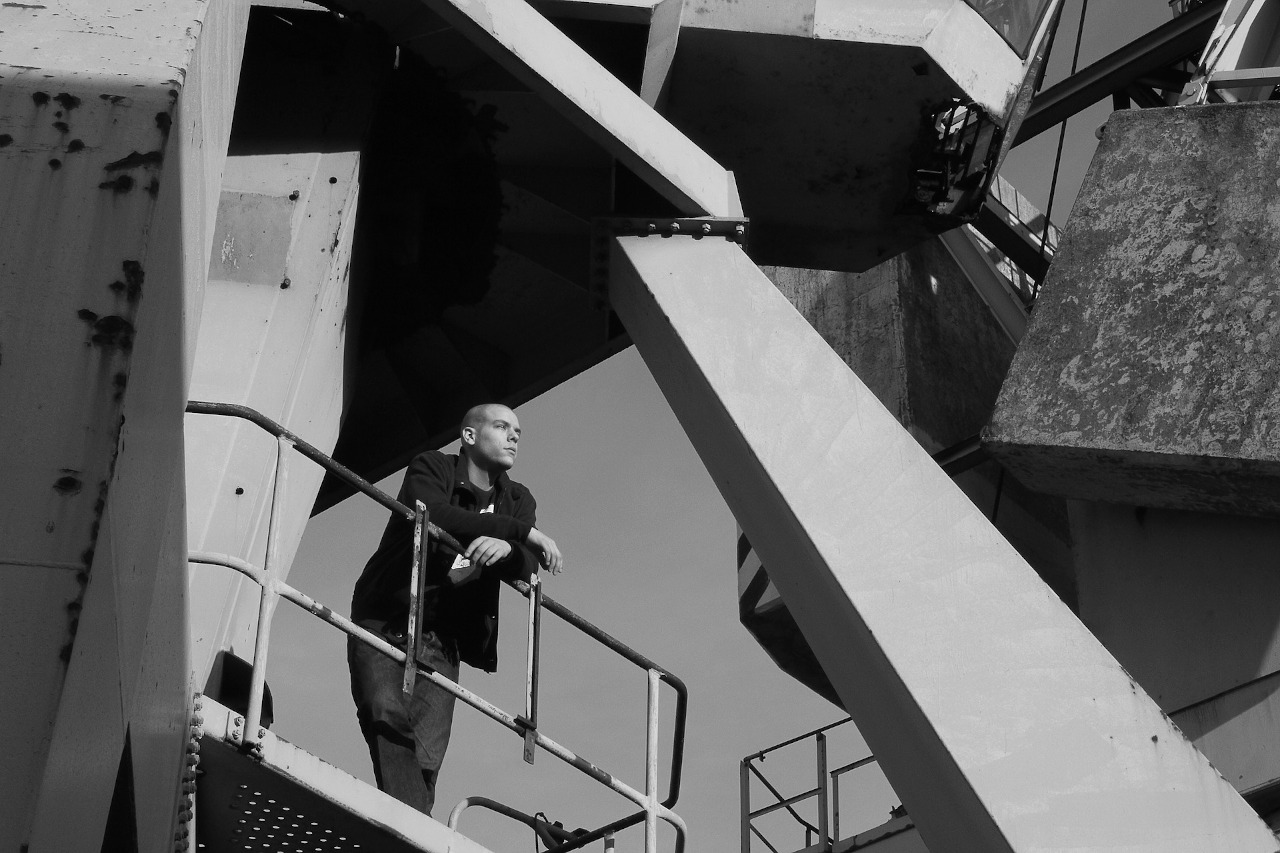
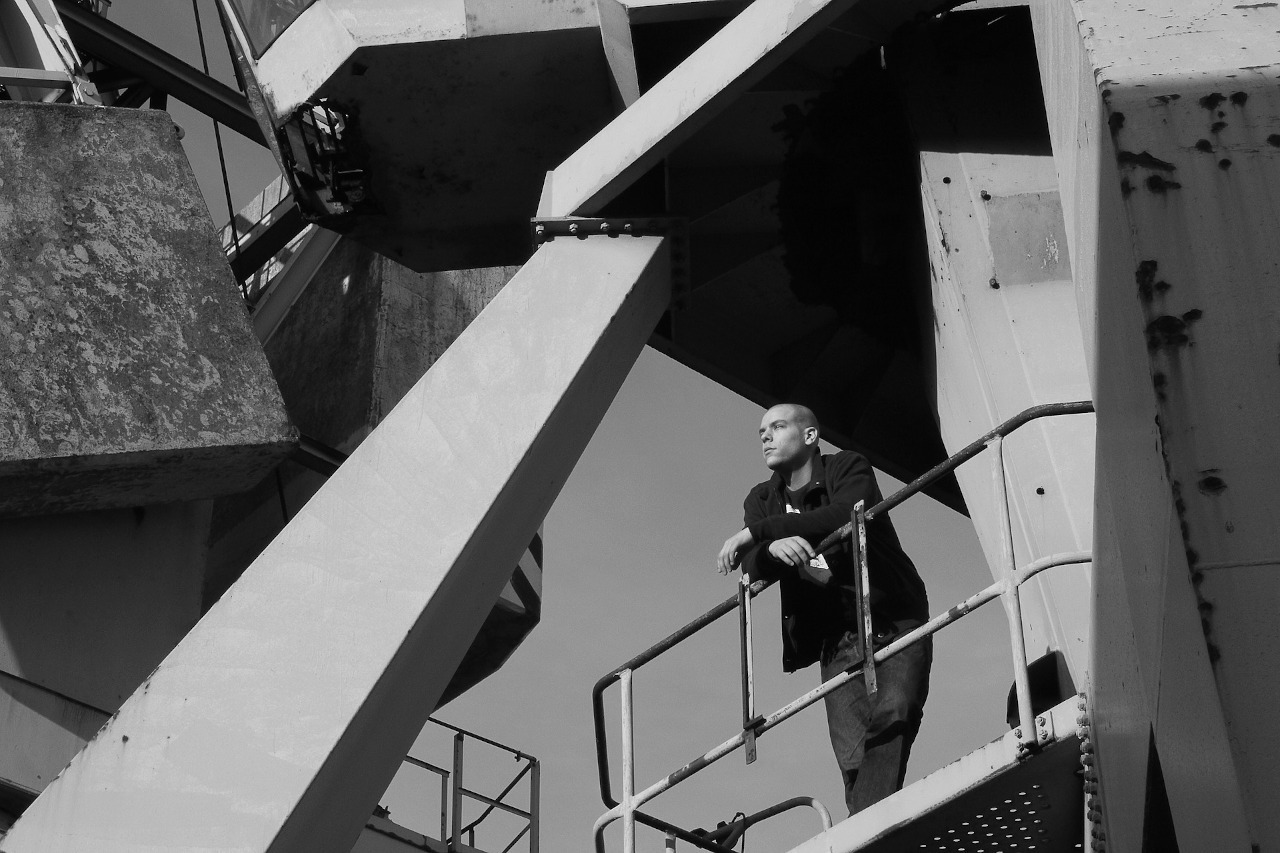
Yellow main box solved

diff --git a/index.html b/index.html
@@ -13,23 +13,23 @@
     <link rel="stylesheet" href="style/style.css">
 </head>
 <body>
-    <header class="fixed-top">
-        <nav class="navbar navbar-expand-lg navbar-light bg-light">
-            <a class="navbar-brand" href="#"><img src="./img/logo.png" alt="Logo firmowe firmy Darex"></a>
+    <header class="row fixed-top m-0 p-0">
+        <nav class="col navbar navbar-expand-lg navbar-light bg-light px-4">
+            <a class="navbar-brand p-0 m-0 pr-3" href="#"><img src="./img/logo.png" class="my-0 py-0" alt="Logo firmowe firmy Darex"></a>
             <button class="navbar-toggler" type="button" data-toggle="collapse" data-target="#navbarToggler" aria-controls="navbarToggler" aria-expanded="false" aria-label="Toggle navigation">
               <span class="navbar-toggler-icon"></span>
             </button>
           
             <div class="collapse navbar-collapse" id="navbarToggler">
               <ul class="navbar-nav ml-auto mt-2 mt-lg-0 text-center font-weight-bold h4">
-                <li class="nav-item px-3 py-2 active">
-                  <a class="nav-link text-uppercase" href="#">Home<span class="sr-only">(current)</span></a>
+                <li class="nav-item px-3 py-lg-0 active">
+                  <a class="nav-link text-uppercase py-lg-0" href="#">Home<span class="sr-only">(current)</span></a>
                 </li>
-                <li class="nav-item px-3 py-2">
-                  <a class="nav-link text-uppercase" href="#">Referencje</a>
+                <li class="nav-item px-3 py-lg-0">
+                  <a class="nav-link text-uppercase py-lg-0" href="#">Referencje</a>
                 </li>
-                <li class="nav-item px-3 py-2">
-                  <a class="nav-link text-uppercase" href="#">Kontakt</a>
+                <li class="nav-item px-3 py-lg-0">
+                  <a class="nav-link text-uppercase py-lg-0" href="#">Kontakt</a>
                 </li>
               </ul>
             </div>
@@ -37,21 +37,31 @@
     </header>
 
     <main>
-        <div class="row mx-0">
-          <div class="col px-0 d-flex flex-row-reverse">
-            <!-- <div class="container p-0">
-              <div class="skewShapeBack"></div>
+      <div class="row mx-0">
+        <div class="col px-0">
+
+          <div id="welcomeWraper" class="col p-0 m-0 d-flex justify-content-center mx-auto">
+            
+            <div id="welcomeText" class="text-uppercase text-center py-4">
+              <h1 class="text-secondary font-weight-bold">partner</h1>
+              <h1 class="text-dark font-weight-bold">twojego</h1>
+              <h1 class="text-secondary font-weight-bold">biznesu</h1>
             </div>
-            <div class="container p-0">
-              <div class="skewShape"></div>
-            </div> -->
-            <img src="./img/home-main2.jpg" alt="Meżczyzna stojący na pomoście żurawia">
+            <div class="welcomeBox p-0 m-0"></div>
+            <div class="welcomeBox--solid p-0 m-0">
+              <!-- <div class="welcomeCoverBox"></div> -->
+            </div>
+            
           </div>
+
+          <img src="./img/home-main.jpg" alt="Meżczyzna stojący na pomoście żurawia">
+        
         </div>
+      </div>
     </main>
 
     <footer>
-
+kkkk
     </footer>
 
     <script src="https://code.jquery.com/jquery-3.4.1.min.js" integrity="sha256-CSXorXvZcTkaix6Yvo6HppcZGetbYMGWSFlBw8HfCJo=" crossorigin="anonymous"></script>

diff --git a/style/style.scss b/style/style.scss
@@ -9,50 +9,74 @@ header{
     width: 100%;
     height: $topSpace;
     img{
-        height: ($topSpace);
+        height: ($topSpace - 2vh);
+    }
+    a{
+        @include mQfullHD{
+            font-size: 2rem;
+        }
     }
 }
 
 main{
-    padding-top: ($topSpace + 2vh);
+    padding-top: $topSpace;
     background-color: $skewShapeColor;
     img{
         width: auto;
-        height: (100vh - ($topSpace + 2vh));
+        height: (100vh - ($topSpace));
+        float: right;
         @include mQportrait{
             width: 100%;
             height: auto;
         }    
     }
-    .container{
-        right: 45vw;
-        height: (100vh - ($topSpace + 2vh)); 
-        border: 1px solid red;
-        position: absolute;
-        z-index: 1;
-        overflow: hidden;
-        @include mQportrait{
-            height: 66.640625vw;
+    #welcomeWraper{
+        width: 55vw;
+        // right: 40vw;
+        @include mQlandscape{
+            position: absolute;
+            padding-top: $topSpace;
+            height: (100vh - ($topSpace));
+        }
+        @include mQpanoram{
+            right: 35vw;
         }
     }
-    .skewShapeBack{
-        width: 100%;
-        height: 100%;
+    #welcomeText{
+        z-index: 1;
+        @include mQlandscape{
+            text-align: left !important;
+            position: relative;
+            top: 20px;
+            left: -50px;
+        }
+    }
+    .welcomeBox{
         background-color: $skewShapeColorOpacity;
-        position: relative;
-        transform: skew(-20deg);
-        transform-origin: 0 0;
-        right: 0px;
-    }
-    .skewShape{
-        width: 100%;
+        width: 40vw;
         height: 100%;
-        background-color: $skewShapeColor;
-        position: relative;
-        transform: skew(-20deg);
-        transform-origin: 0 0;
-        right: 10vw;
+        position: absolute;
+        @include mQlandscape{
+            height: (100vh - ($topSpace));
+            transform: skewX(-25deg);
+        }
+        &--solid{
+            @extend .welcomeBox;
+            background-color: $skewShapeColor;
+            width: 100vw;
+            @include mQlandscape{
+                transform: skewX(-25deg) translateX(-8vw);
+                right: 10vw;
+            }
+        }
     }
+    // .welcomeCoverBox{
+    //     border: 1px solid red;
+    //     background-color: $skewShapeColor;
+    //     height: 100%;
+    //     right: 50px;
+    //     position: relative;
+    // }
 }
 
     

diff --git a/style/style.css b/style/style.css
@@ -5,21 +5,28 @@
 
 header {
   width: 100%;
-  height: 8vh;
+  height: 9vh;
 }
 
 header img {
-  height: 8vh;
+  height: 7vh;
+}
+
+@media screen and (min-width: 1441px) {
+  header a {
+    font-size: 2rem;
+  }
 }
 
 main {
-  padding-top: 10vh;
+  padding-top: 9vh;
   background-color: #ffcc00;
 }
 
 main img {
   width: auto;
-  height: 90vh;
+  height: 91vh;
+  float: right;
 }
 
 @media screen and (orientation: portrait) {
@@ -29,42 +36,62 @@ main img {
   }
 }
 
-main .container {
-  right: 45vw;
-  height: 90vh;
-  border: 1px solid red;
-  position: absolute;
-  z-index: 1;
-  overflow: hidden;
+main #welcomeWraper {
+  width: 55vw;
 }
 
-@media screen and (orientation: portrait) {
-  main .container {
-    height: 66.640625vw;
+@media screen and (orientation: landscape) {
+  main #welcomeWraper {
+    position: absolute;
+    padding-top: 9vh;
+    height: 91vh;
   }
 }
 
-main .skewShapeBack {
-  width: 100%;
-  height: 100%;
-  background-color: #ffcc0080;
-  position: relative;
-  -webkit-transform: skew(-20deg);
-          transform: skew(-20deg);
-  -webkit-transform-origin: 0 0;
-          transform-origin: 0 0;
-  right: 0px;
+@media screen and (min-aspect-ratio: 8 / 4) {
+  main #welcomeWraper {
+    right: 35vw;
+  }
 }
 
-main .skewShape {
-  width: 100%;
+main #welcomeText {
+  z-index: 1;
+}
+
+@media screen and (orientation: landscape) {
+  main #welcomeText {
+    text-align: left !important;
+    position: relative;
+    top: 20px;
+    left: -50px;
+  }
+}
+
+main .welcomeBox, main .welcomeBox--solid {
+  background-color: #ffcc0080;
+  width: 40vw;
   height: 100%;
+  position: absolute;
+}
+
+@media screen and (orientation: landscape) {
+  main .welcomeBox, main .welcomeBox--solid {
+    height: 91vh;
+    -webkit-transform: skewX(-25deg);
+            transform: skewX(-25deg);
+  }
+}
+
+main .welcomeBox--solid {
   background-color: #ffcc00;
-  position: relative;
-  -webkit-transform: skew(-20deg);
-          transform: skew(-20deg);
-  -webkit-transform-origin: 0 0;
-          transform-origin: 0 0;
-  right: 10vw;
+  width: 100vw;
+}
+
+@media screen and (orientation: landscape) {
+  main .welcomeBox--solid {
+    -webkit-transform: skewX(-25deg) translateX(-8vw);
+            transform: skewX(-25deg) translateX(-8vw);
+    right: 10vw;
+  }
 }
 /*# sourceMappingURL=style.css.map */

diff --git a/style/_mixins.scss b/style/_mixins.scss
@@ -3,3 +3,23 @@
         @content;
     }
 }
+@mixin mQfullHD{
+    @media screen and (min-width: 1441px){
+        @content;
+    }
+}
+@mixin mQlandscape{
+    @media screen and (orientation: landscape){
+        @content;
+    }
+}
+@mixin mQpanoram{
+    @media screen and (min-aspect-ratio: 8/4){
+        @content;
+    }
+}
+// @mixin clearFix {
+//     content: "";
+//     clear: both;
+//     display: block;
+// }

diff --git a/style/_variables.scss b/style/_variables.scss
@@ -1,5 +1,5 @@
 // Variables
 
-$topSpace: 8vh;
+$topSpace: 9vh;
 $skewShapeColor: #ffcc00;
 $skewShapeColorOpacity: #ffcc0080;
